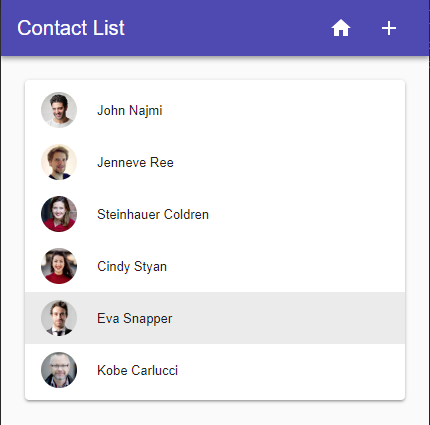
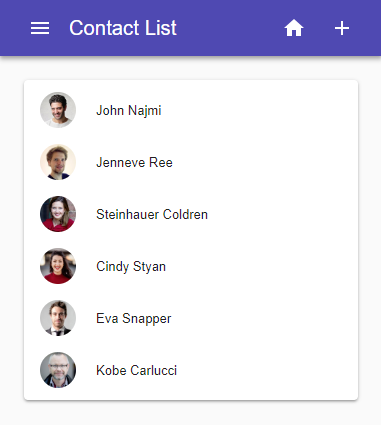
update commit

diff --git a/src/App.js b/src/App.js
@@ -1,13 +1,29 @@
 import React, { Component } from 'react';
+import logo from './logo.svg';
 import './App.css';
+import PropTypes from 'prop-types';
 import AppBar from '@material-ui/core/AppBar';
 import CssBaseline from '@material-ui/core/CssBaseline';
+import Divider from '@material-ui/core/Divider';
+import Drawer from '@material-ui/core/Drawer';
+import Hidden from '@material-ui/core/Hidden';
 import IconButton from '@material-ui/core/IconButton';
+import InboxIcon from '@material-ui/icons/MoveToInbox';
+import List from '@material-ui/core/List';
+import ListItem from '@material-ui/core/ListItem';
+import ListItemIcon from '@material-ui/core/ListItemIcon';
+import ListItemText from '@material-ui/core/ListItemText';
+import MailIcon from '@material-ui/icons/Mail';
+import MenuIcon from '@material-ui/icons/Menu';
 import Toolbar from '@material-ui/core/Toolbar';
 import Typography from '@material-ui/core/Typography';
+import Button from '@material-ui/core/Button';
 import { withStyles } from '@material-ui/core/styles';
 import Link from 'react-router-dom/Link';
 import AppRoute from './AppRoute';
+import Avatar from '@material-ui/core/Avatar';
+import Grid from '@material-ui/core/Grid';
+import AccountCircle from '@material-ui/icons/AccountCircle';
 import AddIcon from '@material-ui/icons/Add';
 import HomeIcon from '@material-ui/icons/Home';
 
@@ -33,7 +49,7 @@ const styles = theme => ({
       flexGrow: 1,
     },
     menuButton: {
-        marginRight: 20,
+        marginRight: 5,
         [theme.breakpoints.up('sm')]: {
             display: 'none',
         },
@@ -67,14 +83,62 @@ class App extends Component {
   render() {
     const { classes, theme } = this.props;
 
+    const drawer = (
+      <div>
+        <Grid container direction="column" justify="center" alignItems="center">
+          <Grid item xs={12}>
+            <Avatar className={classes.avatar}>
+              <AccountCircle size="large" />
+            </Avatar>
+          </Grid>
+          <Grid item xs={12}>
+          <h3>Welcome, user</h3>
+          </Grid>
+        </Grid>
+        <Divider />
+        <List>
+          <Link to="/User" onClick={this.handleDrawerToggle} style={{ textDecoration: 'none'}}>
+            <ListItem button>
+              <ListItemIcon><InboxIcon /> </ListItemIcon>
+              <ListItemText primary="Users" />
+            </ListItem>
+          </Link>
+          <Link to="/User/Add" onClick={this.handleDrawerToggle} style={{ textDecoration: 'none'}}>
+            <ListItem button>
+              <ListItemIcon><InboxIcon /> </ListItemIcon>
+              <ListItemText primary="Add User" />
+            </ListItem>
+          </Link>
+        </List>
+      </div>
+    );
+
     return (
       <div className={classes.root}>
         <CssBaseline />
         <AppBar position="fixed" className={classes.appBar}>
           <Toolbar>
+            <IconButton
+              color="inherit"
+              aria-label="Open drawer"
+              onClick={this.handleDrawerToggle}
+              className={classes.menuButton}
+            >
+              <MenuIcon />
+            </IconButton>
             <Typography variant="h6" color="inherit" className={classes.grow} noWrap>
               Contact List
             </Typography>
+            <Hidden xsDown>
+            <IconButton
+                aria-owns='menu-appbar'
+                aria-haspopup="true"
+                onClick={this.handleMenu}
+                color="inherit"
+              >
+                <AccountCircle />
+              </IconButton>
+            </Hidden>
             <IconButton 
               component={Link}  
               to={`/user`}
@@ -97,6 +161,23 @@ class App extends Component {
             </IconButton>
           </Toolbar>
         </AppBar>
+        <nav className={classes.drawer}>
+          {/* The implementation can be swapped with js to avoid SEO duplication of links. */}
+          <Hidden smUp implementation="css">
+            <Drawer
+              container={this.props.container}
+              variant="temporary"
+              anchor={theme.direction === 'rtl' ? 'right' : 'left'}
+              open={this.state.mobileOpen}
+              onClose={this.handleDrawerToggle}
+              classes={{
+                paper: classes.drawerPaper,
+              }}
+            >
+              {drawer}
+            </Drawer>
+          </Hidden>
+        </nav>
         <main className={classes.content}>
           <div className={classes.toolbar} />
           <AppRoute />
